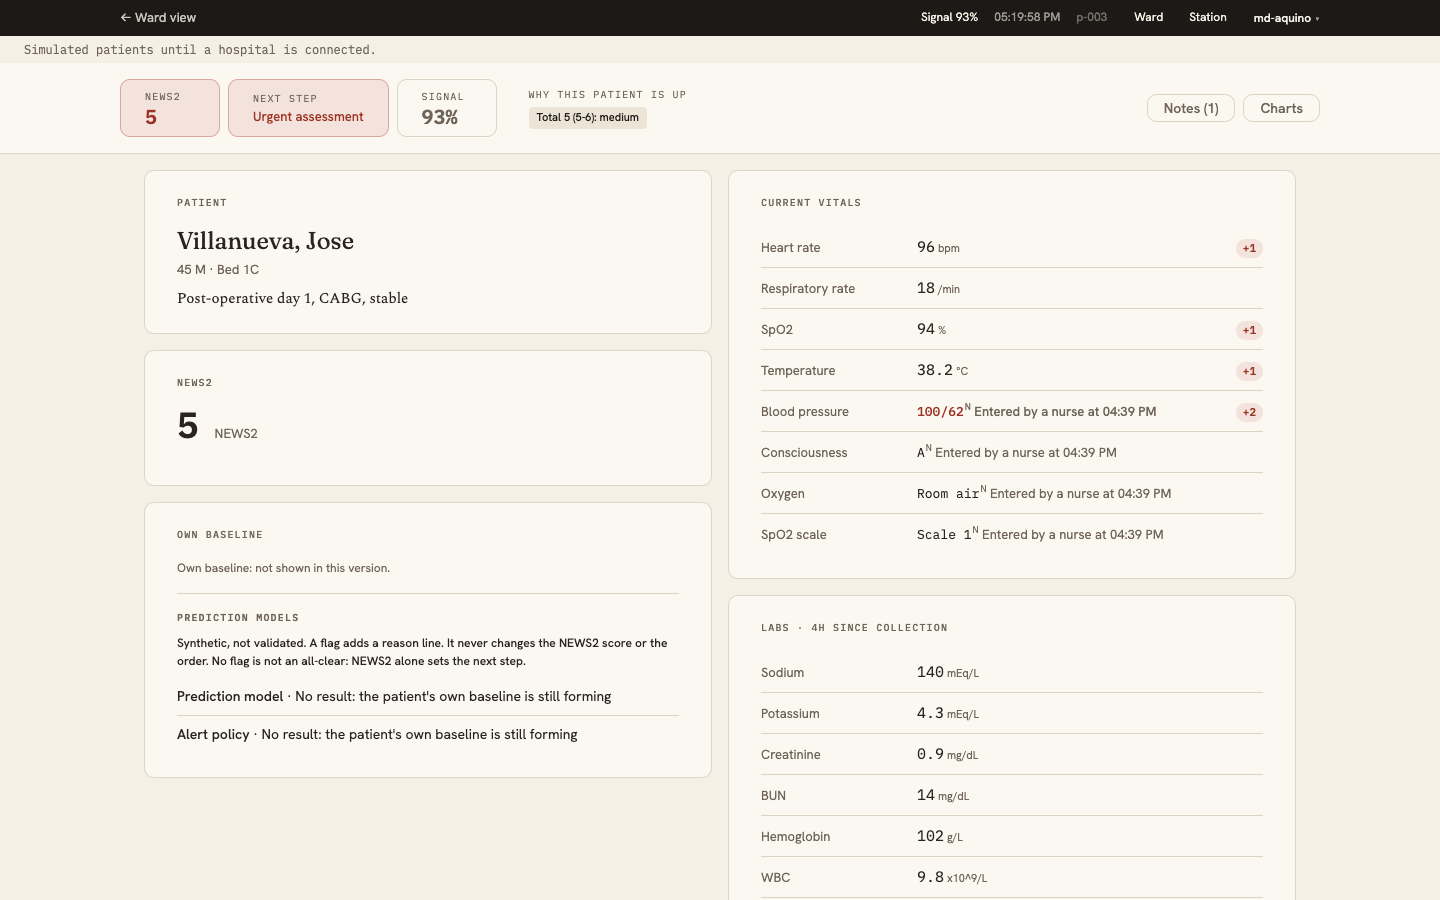
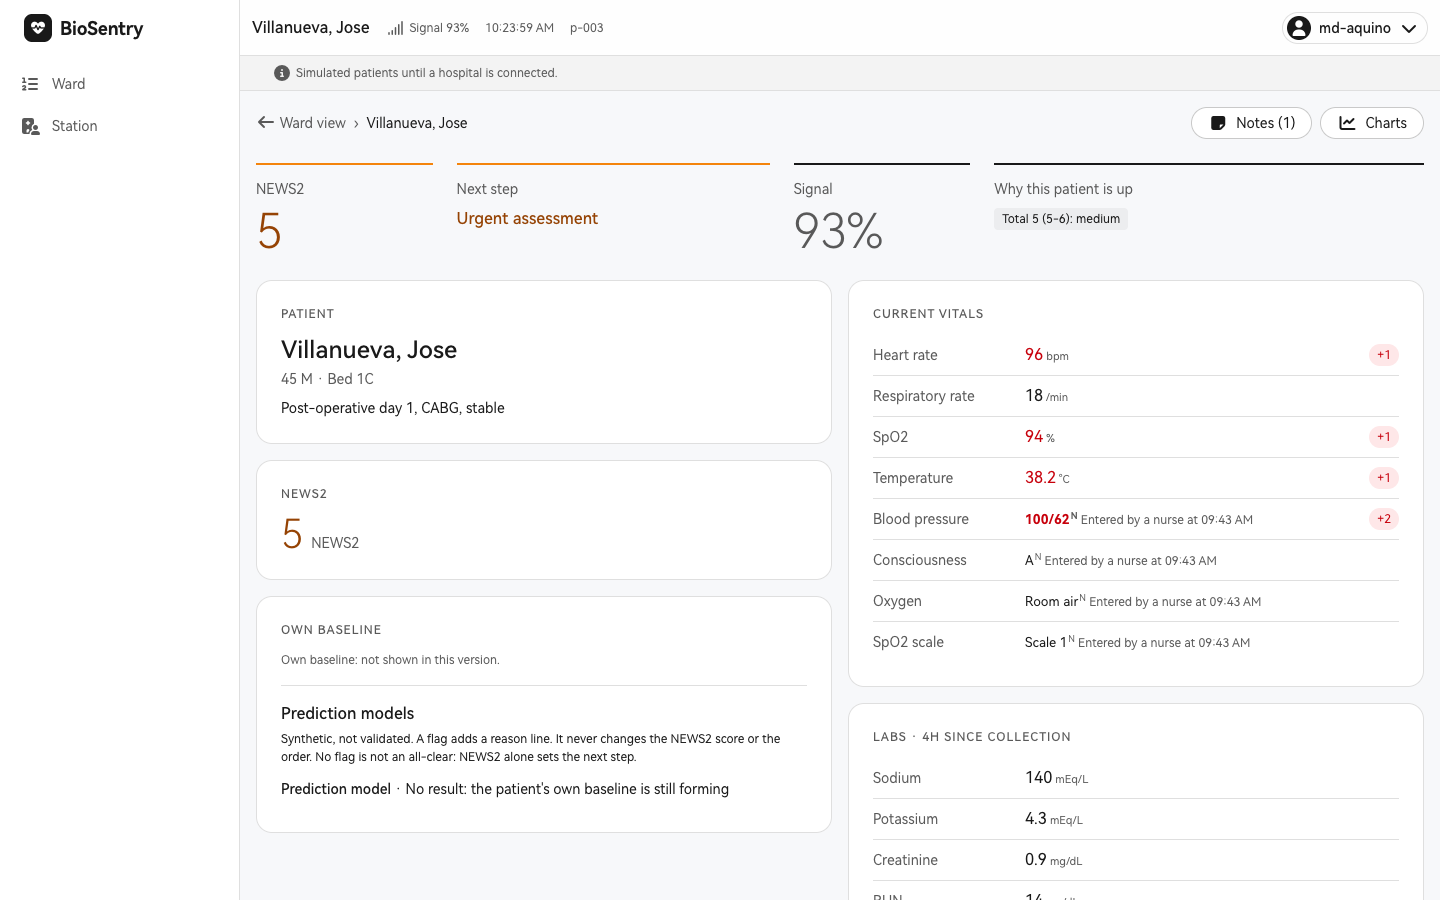
docs: README look and screenshots for the hw-ui dashboard

diff --git a/README.md b/README.md
@@ -483,11 +483,11 @@ applied to made-up patients.
   `shown` unit gets a NEWS2 band and an `unranked` unit gets nothing.
 - **Ward view** must be filtered server-side to the signed-in clinician's patients, on every
   call. The API does this from its care assignments; the fixture provider stands in when there is no API.
-- **Look:** follows the studio brand book (foundation v1), kept quiet for a clinical surface.
-  Paper ground, Flour cards, Linen hairlines, Char ink; Slate only for chart lines, never text;
-  Scorch marks what needs action (NEWS2 7+ solid, 5-6 or a single 3 as an edge), sage marks
-  stable. Fraunces for names, Spectral for text, IBM Plex Mono for numbers and labels, Hanken
-  Grotesk for buttons. No dots, shadows or gradients. Tokens are in `frontend/src/index.css`.
+- **Look:** built on hw-ui, our Huawei-inspired UI kit (vendored in `frontend/vendor/hw-ui`), in its
+  Cloud console family: grey surfaces, near-black actions, HarmonyOS Sans (bundled, unmodified) and
+  Font Awesome Free icons. Colour marks only what needs action: emergency red for NEWS2 7+, urgent
+  orange for 5-6 or a single 3, red text for a value that adds points; everything else is grey. Pages
+  use kit classes; their CSS modules hold layout only and read kit tokens (`frontend/src/index.css`).
 - **Role-aware:** each row shows the NEWS2 response for the signed-in role (RCP 2017, Chart 4):
   a nurse sees whom to call, a physician sees what assessment is due.
 
